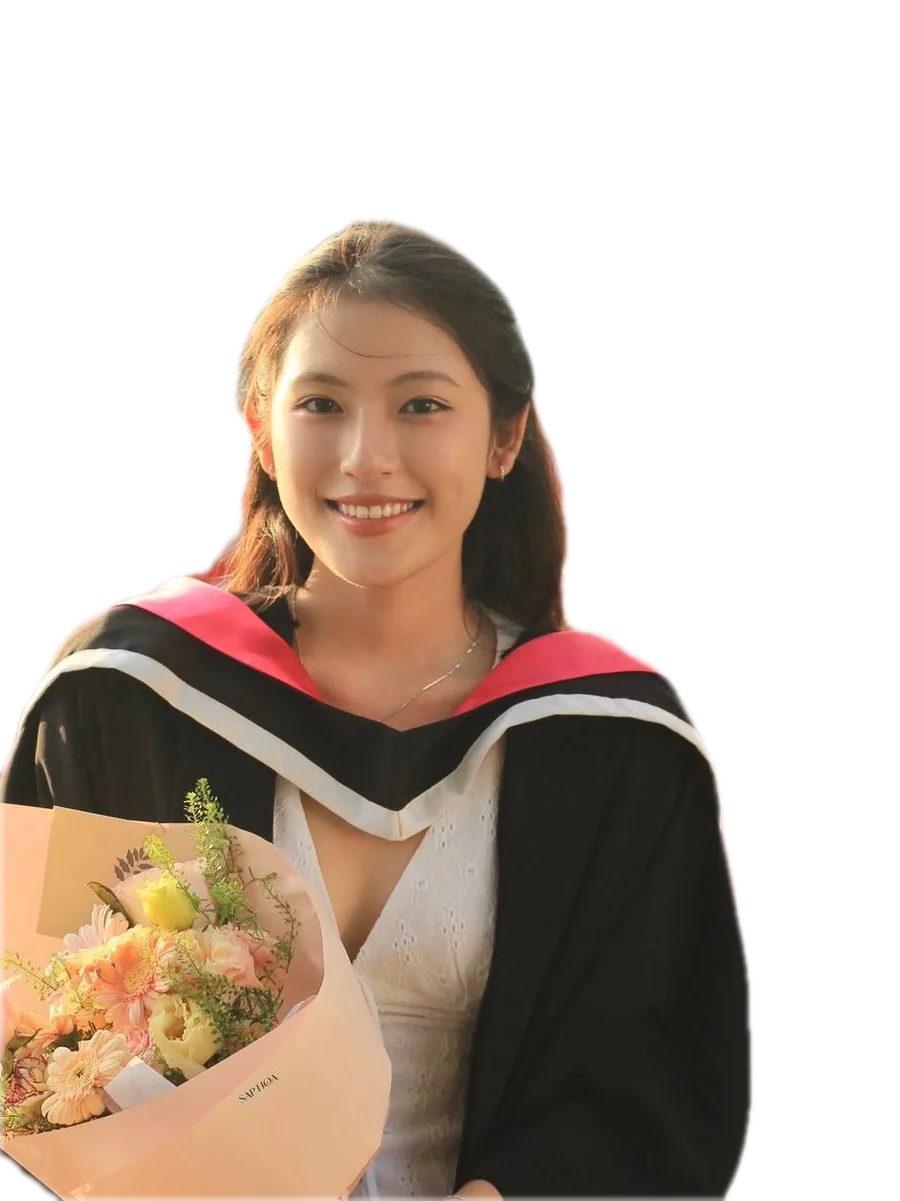
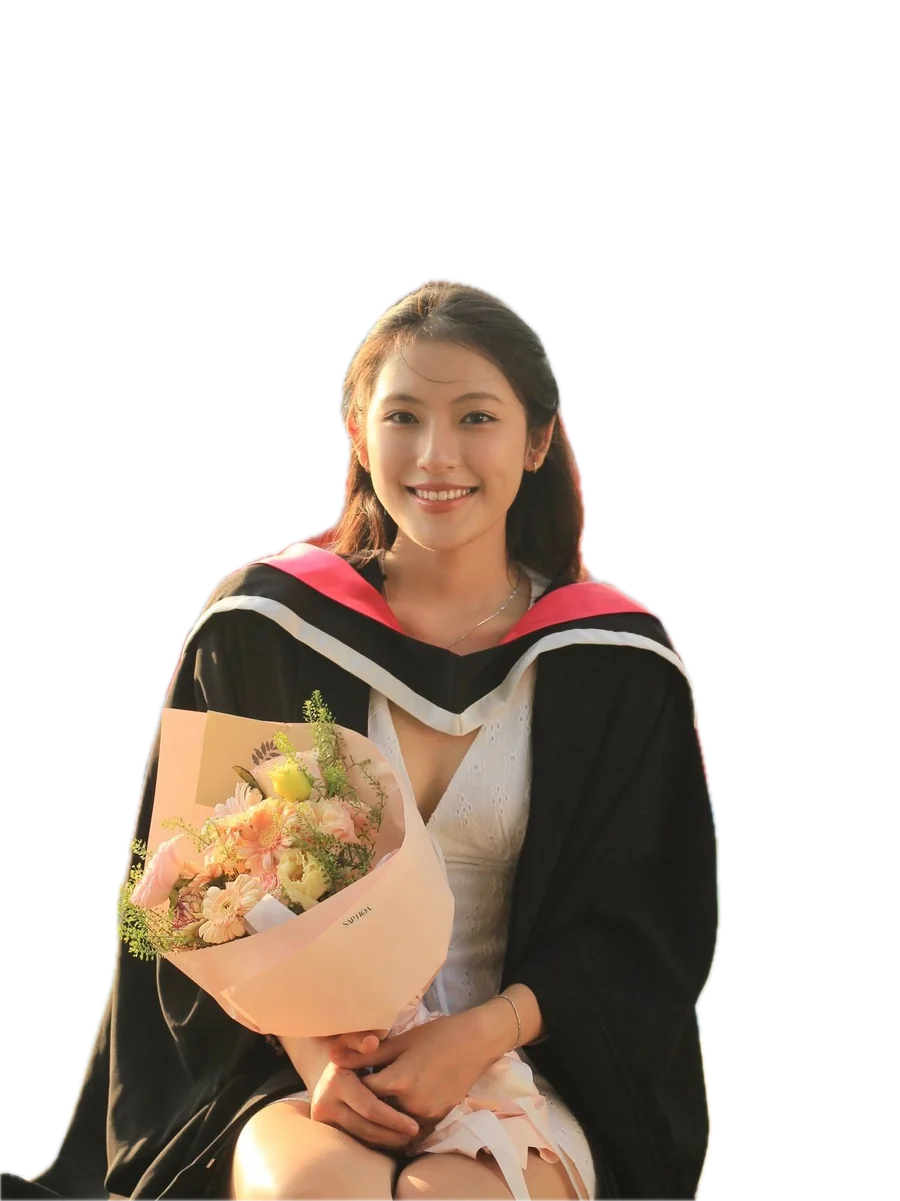
Center the About portrait

diff --git a/index.html b/index.html
@@ -129,7 +129,7 @@
       <div class="wrap about__grid">
         <figure class="about__pic ffx" style="--x:50%">
           <img class="ffx__a" src="assets/img/portrait.webp" width="900" height="1201" alt="Nguyen Phan Phuong Le at her RMIT University Vietnam graduation" loading="lazy" />
-          <div class="ffx__b" aria-hidden="true"><svg class="ffx__art" viewBox="0 0 900 1125" preserveAspectRatio="xMidYMid slice"><rect width="900" height="1125" class="ffa__bg" style="fill:var(--water)"/><path class="ffa__ln" d="M-20 120C40 80 100 80 160 120S280 160 340 120 460 80 520 120 640 160 700 120 820 80 920 120"/><path class="ffa__ln" d="M-30 650C10 620 50 620 90 650S170 680 210 650"/><path class="ffa__ln" d="M930 440C890 410 850 410 810 440S730 470 690 440"/><path class="ffa__ln" d="M600 1100C640 1070 680 1070 720 1100S800 1130 840 1100 900 1070 940 1090"/><image href="assets/img/portrait-cut.webp" x="0" y="-38" width="900" height="1201"/><g transform="translate(150 250) rotate(-10) scale(1.9)"><path d="M0-50C12-32 30-14 30 6A30 30 0 0 1-30 6C-30-14-12-32 0-50Z" class="ffa__k" style="stroke-width:4.2"/><path d="M-17 8C-17-2-12-12-6-20" class="ffa__hl" style="stroke-width:3.2"/></g><g transform="translate(720 320) rotate(8) scale(2.3)"><path d="M0-50C12-32 30-14 30 6A30 30 0 0 1-30 6C-30-14-12-32 0-50Z" class="ffa__k" style="stroke-width:3.5"/><path d="M-17 8C-17-2-12-12-6-20" class="ffa__hl" style="stroke-width:2.6"/></g><g transform="translate(835 175) rotate(14) scale(1.2)"><path d="M0-50C12-32 30-14 30 6A30 30 0 0 1-30 6C-30-14-12-32 0-50Z" class="ffa__k" style="stroke-width:6.5"/><path d="M-17 8C-17-2-12-12-6-20" class="ffa__hl" style="stroke-width:4.9"/></g><g transform="translate(70 560) rotate(-8) scale(1.0)"><path d="M0-50C12-32 30-14 30 6A30 30 0 0 1-30 6C-30-14-12-32 0-50Z" class="ffa__k" style="stroke-width:7.5"/><path d="M-17 8C-17-2-12-12-6-20" class="ffa__hl" style="stroke-width:5.6"/></g><g transform="translate(800 560)"><path d="M-62 52C-62 38 62 38 62 52S-62 66-62 52Z" class="ffa__k" style="stroke-width:7"/><path d="M-90 50C-90 28 90 28 90 50" class="ffa__ray"/><g transform="scale(1.1)"><path d="M0-50C12-32 30-14 30 6A30 30 0 0 1-30 6C-30-14-12-32 0-50Z" class="ffa__k"/><path d="M-17 8C-17-2-12-12-6-20" class="ffa__hl"/><circle cx="10" cy="10" r="7" class="ffa__bgc" style="fill:var(--water)"/></g></g><g class="ffa__hat"><g class="ffa__drop"><g transform="translate(398 238)"><path class="ffa__k" d="M-118 34C-80-8 80-8 118 34L106 46C70 12-70 12-106 46Z" style="stroke-width:7"/><path class="ffa__hl" d="M-92 26C-74 14-58 14-46 22S-18 30 0 18 32 14 46 22 74 30 92 26" style="stroke-width:5"/><g transform="translate(0 -14) scale(0.95)"><path d="M0-50C12-32 30-14 30 6A30 30 0 0 1-30 6C-30-14-12-32 0-50Z" class="ffa__k" style="stroke-width:8"/><path d="M-17 8C-17-2-12-12-6-20" class="ffa__hl" style="stroke-width:6"/></g><g transform="translate(-70 12) rotate(-24) scale(0.5)"><path d="M0-50C12-32 30-14 30 6A30 30 0 0 1-30 6C-30-14-12-32 0-50Z" class="ffa__k" style="stroke-width:12"/></g><g transform="translate(70 12) rotate(24) scale(0.5)"><path d="M0-50C12-32 30-14 30 6A30 30 0 0 1-30 6C-30-14-12-32 0-50Z" class="ffa__k" style="stroke-width:12"/></g></g></g></g><g class="ffa__ext"><g transform="translate(-14 0)"><path d="M774 864C760 920 758 990 764 1046" class="ffa__hl" style="stroke-width:10"/><path d="M716 1060C716 1046 812 1046 812 1060S716 1074 716 1060Z" class="ffa__k" style="stroke-width:6"/><path d="M690 1066C690 1040 838 1040 838 1066" class="ffa__ray" style="stroke-width:6"/><path d="M806 826H866V850C896 872 900 936 872 964H800C772 936 776 872 806 850Z" class="ffa__k"/><path d="M808 832L774 862L808 860Z" class="ffa__k" style="stroke-width:6"/><path d="M868 862C904 860 912 930 880 940" class="ffa__hl" style="stroke-width:9"/><path d="M790 904C812 896 852 912 884 904" class="ffa__w" style="stroke-width:5"/></g></g><g class="ffa__ray" style="stroke-width:6"><circle cx="540" cy="140" r="10"/><circle cx="572" cy="112" r="6"/><circle cx="615" cy="470" r="9"/><circle cx="120" cy="440" r="9"/><circle cx="146" cy="414" r="5"/></g></svg></div>
+          <div class="ffx__b" aria-hidden="true"><svg class="ffx__art" viewBox="0 0 900 1125" preserveAspectRatio="xMidYMid slice"><rect width="900" height="1125" class="ffa__bg" style="fill:var(--water)"/><path class="ffa__ln" d="M-20 120C40 80 100 80 160 120S280 160 340 120 460 80 520 120 640 160 700 120 820 80 920 120"/><path class="ffa__ln" d="M-30 650C10 620 50 620 90 650S170 680 210 650"/><path class="ffa__ln" d="M930 440C890 410 850 410 810 440S730 470 690 440"/><path class="ffa__ln" d="M600 1100C640 1070 680 1070 720 1100S800 1130 840 1100 900 1070 940 1090"/><image href="assets/img/portrait-cut.webp" x="0" y="-38" width="900" height="1201"/><g transform="translate(150 250) rotate(-10) scale(1.9)"><path d="M0-50C12-32 30-14 30 6A30 30 0 0 1-30 6C-30-14-12-32 0-50Z" class="ffa__k" style="stroke-width:4.2"/><path d="M-17 8C-17-2-12-12-6-20" class="ffa__hl" style="stroke-width:3.2"/></g><g transform="translate(720 320) rotate(8) scale(2.3)"><path d="M0-50C12-32 30-14 30 6A30 30 0 0 1-30 6C-30-14-12-32 0-50Z" class="ffa__k" style="stroke-width:3.5"/><path d="M-17 8C-17-2-12-12-6-20" class="ffa__hl" style="stroke-width:2.6"/></g><g transform="translate(835 175) rotate(14) scale(1.2)"><path d="M0-50C12-32 30-14 30 6A30 30 0 0 1-30 6C-30-14-12-32 0-50Z" class="ffa__k" style="stroke-width:6.5"/><path d="M-17 8C-17-2-12-12-6-20" class="ffa__hl" style="stroke-width:4.9"/></g><g transform="translate(70 560) rotate(-8) scale(1.0)"><path d="M0-50C12-32 30-14 30 6A30 30 0 0 1-30 6C-30-14-12-32 0-50Z" class="ffa__k" style="stroke-width:7.5"/><path d="M-17 8C-17-2-12-12-6-20" class="ffa__hl" style="stroke-width:5.6"/></g><g transform="translate(800 560)"><path d="M-62 52C-62 38 62 38 62 52S-62 66-62 52Z" class="ffa__k" style="stroke-width:7"/><path d="M-90 50C-90 28 90 28 90 50" class="ffa__ray"/><g transform="scale(1.1)"><path d="M0-50C12-32 30-14 30 6A30 30 0 0 1-30 6C-30-14-12-32 0-50Z" class="ffa__k"/><path d="M-17 8C-17-2-12-12-6-20" class="ffa__hl"/><circle cx="10" cy="10" r="7" class="ffa__bgc" style="fill:var(--water)"/></g></g><g class="ffa__hat"><g class="ffa__drop"><g transform="translate(464 302) scale(1.06)"><path class="ffa__k" d="M-118 34C-80-8 80-8 118 34L106 46C70 12-70 12-106 46Z" style="stroke-width:7"/><path class="ffa__hl" d="M-92 26C-74 14-58 14-46 22S-18 30 0 18 32 14 46 22 74 30 92 26" style="stroke-width:5"/><g transform="translate(0 -14) scale(0.95)"><path d="M0-50C12-32 30-14 30 6A30 30 0 0 1-30 6C-30-14-12-32 0-50Z" class="ffa__k" style="stroke-width:8"/><path d="M-17 8C-17-2-12-12-6-20" class="ffa__hl" style="stroke-width:6"/></g><g transform="translate(-70 12) rotate(-24) scale(0.5)"><path d="M0-50C12-32 30-14 30 6A30 30 0 0 1-30 6C-30-14-12-32 0-50Z" class="ffa__k" style="stroke-width:12"/></g><g transform="translate(70 12) rotate(24) scale(0.5)"><path d="M0-50C12-32 30-14 30 6A30 30 0 0 1-30 6C-30-14-12-32 0-50Z" class="ffa__k" style="stroke-width:12"/></g></g></g></g><g class="ffa__ext"><g transform="translate(-14 0)"><path d="M774 864C760 920 758 990 764 1046" class="ffa__hl" style="stroke-width:10"/><path d="M716 1060C716 1046 812 1046 812 1060S716 1074 716 1060Z" class="ffa__k" style="stroke-width:6"/><path d="M690 1066C690 1040 838 1040 838 1066" class="ffa__ray" style="stroke-width:6"/><path d="M806 826H866V850C896 872 900 936 872 964H800C772 936 776 872 806 850Z" class="ffa__k"/><path d="M808 832L774 862L808 860Z" class="ffa__k" style="stroke-width:6"/><path d="M868 862C904 860 912 930 880 940" class="ffa__hl" style="stroke-width:9"/><path d="M790 904C812 896 852 912 884 904" class="ffa__w" style="stroke-width:5"/></g></g><g class="ffa__ray" style="stroke-width:6"><circle cx="540" cy="140" r="10"/><circle cx="572" cy="112" r="6"/><circle cx="615" cy="470" r="9"/><circle cx="120" cy="440" r="9"/><circle cx="146" cy="414" r="5"/></g></svg></div>
           <div class="ffx__bar" aria-hidden="true"><span class="ffx__k"><svg viewBox="0 0 24 24"><path d="M9 7l-5 5 5 5M15 7l5 5-5 5"/></svg></span></div>
           <input class="ffx__r" type="range" min="0" max="100" value="50" aria-label="Slide to reveal a drawing of me as calm water, cooling a heated room." />
           <figcaption class="ffx__hint">Drag to meet the calm water</figcaption>
